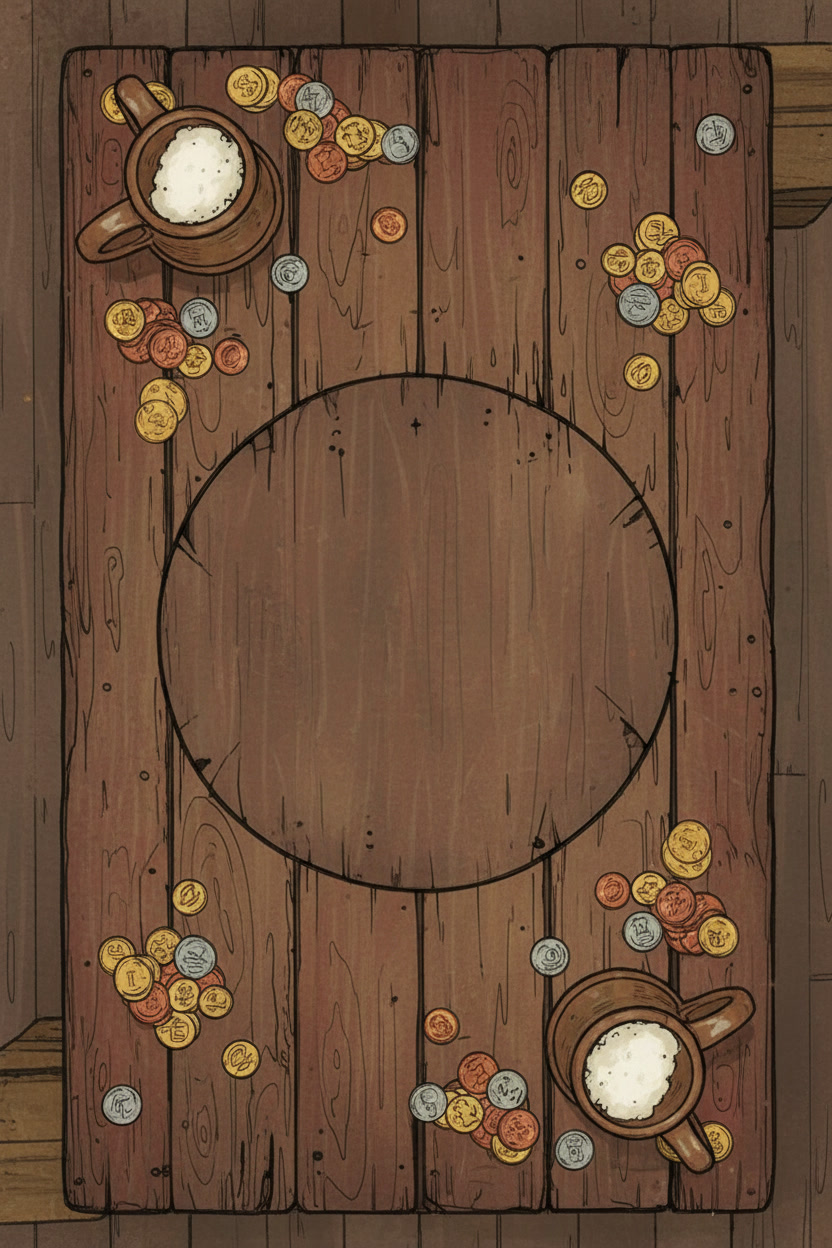
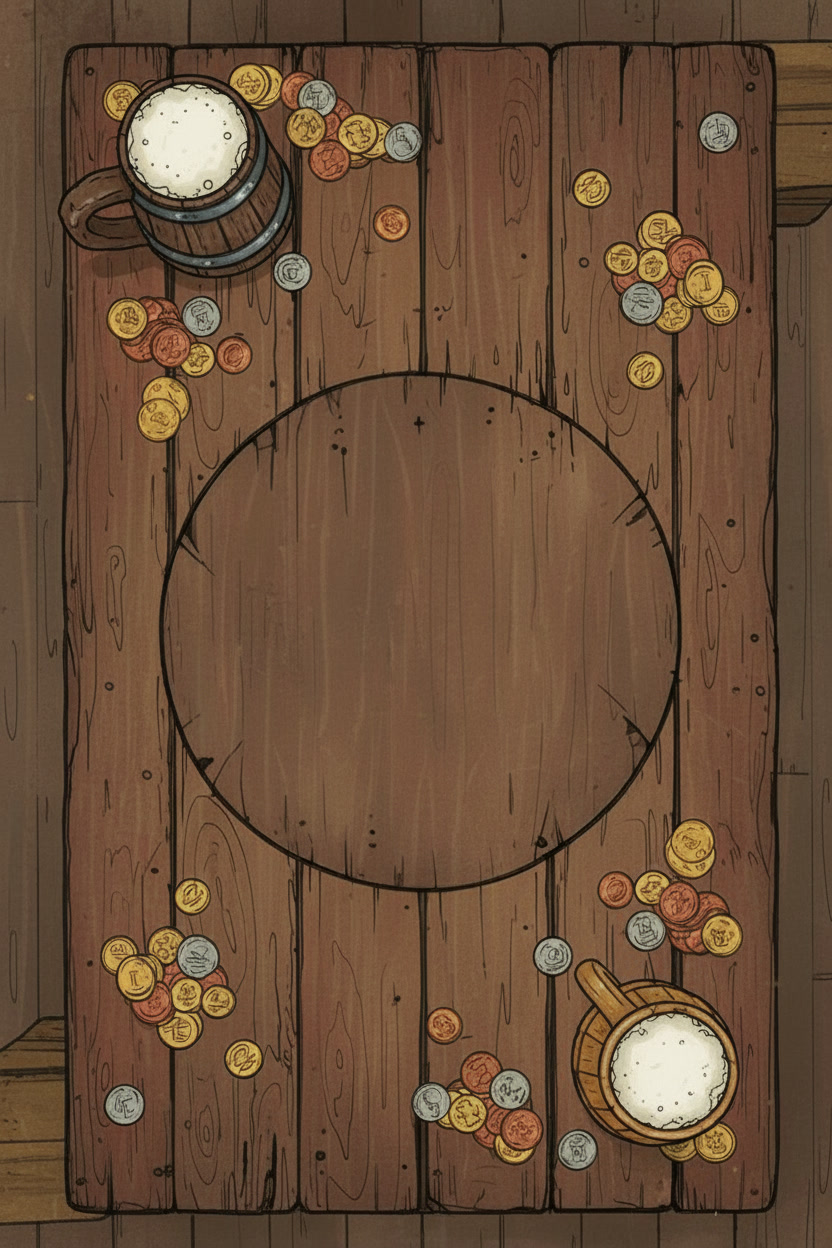
feat/fix/ref: доработана логика подключения к игровой комнате, добавлен модуль для работы со звуком, отредактированы изображения

diff --git a/game/web/game.js b/game/web/game.js
@@ -1,11 +1,27 @@
 import { loadProfile } from "./api.js";
 import { showScreen, setIsGameActive, hideWaitingOverlay } from "./ui.js";
+import { sfx } from './sfx.js';
 
+window.addEventListener('DOMContentLoaded', () => {
+    // Включаем WebAudio на первый клик/тач в документе
+    const unlockAudio = () => {
+        sfx.init();
+        
+        // Загружаем эффекты
+        sfx.loadSound('roll', '../sounds/dice.wav');
+        sfx.loadSound('bank', '../sounds/bank.wav');
+        sfx.loadSound('select', '../sounds/writingPen.wav');
+
+        document.removeEventListener('pointerdown', unlockAudio);
+    };
+
+    document.addEventListener('pointerdown', unlockAudio);
+});
 // Звуковые эффекты
-const sfxRoll = new Audio('../sounds/dice.wav');
+/*const sfxRoll = new Audio('../sounds/dice.wav');
 const sfxBank = new Audio('../sounds/bank.wav');
 const sfxSelect = new Audio('../sounds/writingPen.wav');
-
+*/
 let socket;
 let isMyTurn = false;
 let isZonkPending = false;
@@ -156,17 +172,18 @@ function getSelectedDiceValues() {
 
 // === НАЖАТИЯ НА КНОПКИ УПРАВЛЕНИЯ ===
 btnRoll.addEventListener('click', () => {
-    sfxRoll.currentTime = 0;
-    sfxRoll.play();
+   /* sfxRoll.currentTime = 0;
+    sfxRoll.play();*/
+    sfx.play('roll');
     selectedDiceIndices.clear();
     sendAction('ROLL');
 });
 
 // Кнопка "В банк" — сохраняет очки и передает ход сопернику
 btnBank.addEventListener('click', () => {
-    sfxBank.currentTime = 0;
-    sfxBank.play();
-    
+   /* sfxBank.currentTime = 0;
+    sfxBank.play();*/
+    sfx.play('bank');
     const selectedVals = getSelectedDiceValues();
     sendAction('BANK', selectedVals);
     selectedDiceIndices.clear();
@@ -181,9 +198,10 @@ btnSelect.addEventListener('click', () => {
         printLog(warningMsg);
         return;
     }
-
+    /*	
     sfxSelect.currentTime = 0;
-    sfxSelect.play();
+    sfxSelect.play();*/
+    sfx.play('select');	
     sendAction('SELECT_DICE', selectedVals);
 });
 
@@ -526,6 +544,8 @@ const processTurnChange = () => {
             setIsGameActive(false);
             stopVisualTimer();
             toggleControls(false);
+	    diceContainer.innerHTML = '';
+	    gameLogContainer.innerHTML = '';
             printLog(msg.message || "🏆 Игра завершена!");
             gameoverModalMsg.textContent = msg.message;
             gameoverModal.showModal();

diff --git a/game/web/sfx.js b/game/web/sfx.js
@@ -1,0 +1,49 @@
+class SoundManager {
+    constructor() {
+        this.ctx = null;
+        this.buffers = new Map();
+    }
+
+    // Инициализация контекста (должна вызываться по клику пользователя)
+    init() {
+        if (!this.ctx) {
+            const AudioContext = window.AudioContext || window.webkitAudioContext;
+            this.ctx = new AudioContext();
+        }
+        if (this.ctx.state === 'suspended') {
+            this.ctx.resume();
+        }
+    }
+
+    // Предзагрузка звукового файла в память
+    async loadSound(name, url) {
+        try {
+            const response = await fetch(url);
+            const arrayBuffer = await response.arrayBuffer();
+            // Раздекодируем аудиоданные
+            const audioBuffer = await new Promise((resolve, reject) => {
+                this.ctx.decodeAudioData(arrayBuffer, resolve, reject);
+            });
+            this.buffers.set(name, audioBuffer);
+        } catch (e) {
+            console.error(`Ошибка загрузки звука ${name}:`, e);
+        }
+    }
+
+    // Мгновенное воспроизведение
+    play(name) {
+        if (!this.ctx || this.ctx.state === 'suspended') {
+            this.init();
+        }
+
+        const buffer = this.buffers.get(name);
+        if (!buffer) return;
+
+        const source = this.ctx.createBufferSource();
+        source.buffer = buffer;
+        source.connect(this.ctx.destination);
+        source.start(0);
+    }
+}
+
+export const sfx = new SoundManager();

diff --git a/game/web/lobby.js b/game/web/lobby.js
@@ -136,7 +136,7 @@ btnConfirmCreate.addEventListener('click', async () => {
     const response = await createRoomReq(bet, score);
     console.log('Комната создана! ID:', response.room_id);
     createRoomModal.close();
-    connectWebSocket(response.room_id);
+    connectWebSocket(response.room_id, false);
   } catch (error) {
     console.error(`Ошибка создания комнаты: `, error);
   }
@@ -154,17 +154,17 @@ export const findGame = async () => {
     roomsData.forEach(room => {
       const newRoomLi = document.createElement('li');
       newRoomLi.classList.add('rooms-list-row');
-      newRoomLi.innerText = `Стол игрока ${room.creator}\n Ставка: ${room.bet_amount}`;
+      newRoomLi.innerText = `Стол игрока ${room.creator}\nСтавка: ${room.bet_amount}\nЦель: ${room.target_score}`;
       const joinGameBtn = document.createElement('button');
       joinGameBtn.innerText = 'Войти';
       joinGameBtn.classList.add('btn-medieval');
-    
+
       joinGameBtn.addEventListener('click', async () => {
         try {
           const res = await joinRoomReq(room.id);
           console.log('Успешный вход в игру! ID:', res.room_id);
           findRoomsModal.close();
-          connectWebSocket(res.room_id);
+          connectWebSocket(res.room_id, true);
         } catch (error) {
           console.error('Ошибка входа в игру: ', error)
         }

diff --git a/game/web/index.html b/game/web/index.html
@@ -122,9 +122,10 @@
             </div>
         </dialog>
         <dialog id="rules-modal" class="modal">
-            <div class="medieval-card modal-content">
+            <div class="medieval-card game-rules-content">
                 <h2>Правила игры</h2>
-                <p><b>Цель игры:</b> Первым набрать 3000 очков.</p>
+                <p><b>Цель игры:</b> Первым установленное количество очков.</p>
+		<p>Количество очков устанавливается при создании комнаты.</p>
                 <span>Игроки ходят по очереди. В начале хода нужно сделать бросок и выбрать призовые кости!</span>
                 <span>Призовые кости - это кости, которые приносят очки:</span>
                 <span>Очки приносят единицы (100) и пятерки (50), а также комбинации из 3+ одинаковых костей.</span>

diff --git a/game/web/ws.js b/game/web/ws.js
@@ -4,7 +4,7 @@ import { showScreen, showGameStatus, showWaitingOverlay, hideWaitingOverlay } fr
 
 const wsHost = window.ENV.WS_URL;
 
-export async function connectWebSocket(roomId) {
+export async function connectWebSocket(roomId, isJoining = false) {
   const token = await getValidToken();
   if (!token) {
     console.warn("Нет токена для WebSocket. Игрок не авторизован.");
@@ -23,7 +23,11 @@ export async function connectWebSocket(roomId) {
     setGameSocket(socket);
 
     if (roomId) {
-      showWaitingOverlay("Комната создана. Ожидаем второго игрока...");
+      if (isJoining) {
+        showWaitingOverlay("Ожидаем согласия создателя комнаты");
+      } else {
+        showWaitingOverlay("Комната создана. Ожидаем второго игрока...");
+      }
 
       // Привязываем отмену к зарытию сокета
       const cancelBtn = document.getElementById('cancel-waiting-btn');

diff --git a/game/web/style.css b/game/web/style.css
@@ -279,6 +279,13 @@ dialog {
 .medieval-form { display: flex; flex-direction: column; }
 .form-error-msg { color: red; background-color: #2c3e50; }
 .hidden { display: none!important; }
+.game-rules-content {
+ max-height: 460px;
+ overflow-y: auto;
+ background: rgba(20, 20, 20, 0.95);
+ max-width: 300px;
+}
+.combo-list { list-style-type: none; margin: 0; }
 
 /* Адаптивность (Media Queries) для мобильных устройств */
 /* Стандартные смартфоны вертикально */

diff --git a/game/internal/game/room.go b/game/internal/game/room.go
@@ -27,10 +27,10 @@ type Room struct {
 	lobby   *Lobby     // Ссылка на родительский менеджер комнат
 
 	// Экономика
-	BetAmount int                 // Размер ставки
-	TargetScore int		      // Очки для победы
-	Pot       int                 // общий банк
-	Store     economy.PlayerStore // ссылка на хранилище
+	BetAmount   int                 // Размер ставки
+	TargetScore int                 // Очки для победы
+	Pot         int                 // общий банк
+	Store       economy.PlayerStore // ссылка на хранилище
 
 	// Игровое состояние комнаты
 	IsStarted   bool                   // Старт игры
@@ -98,11 +98,11 @@ func (r *Room) AddClient(client *Client) {
 			return
 		}
 
-	// Если это второй игрок (подключается к создателю) - отправляем запрос
+		// Если это второй игрок (подключается к создателю) - отправляем запрос
 		if len(r.Players) == 1 && !r.IsStarted {
 			r.PendingClient = client
 			r.PendingPlayer = playerName
-			
+
 			// Находим клиента-создателя для отправки запроса
 			for c := range r.Clients {
 				if c.PlayerName == r.Players[0] {
@@ -243,8 +243,8 @@ func (r *Room) resetTurnTimerLocked() {
 			delta  int
 		}
 
-		// Проверяем, не набрал ли игрок 3000 очков за счет этого авто-сохранения
-		if r.Banks[r.CurrentTurn] >= 3000 {
+		// Проверяем, не набрал ли игрок выйгрышную сумму очков за счет этого авто-сохранения
+		if r.Banks[r.CurrentTurn] >= r.TargetScore {
 			r.stopTurnTimerLocked()
 			r.IsStarted = false
 
@@ -458,13 +458,6 @@ func (r *Room) Leave(client *Client) {
 func (r *Room) HandleAction(client *Client, action models.ActionMessage) {
 	r.Mu.Lock()
 
-	// 1. Если игра ещё не началась (ждём второго игрока)
-	if !r.IsStarted {
-		r.Mu.Unlock()
-		r.sendToClient(client, models.EventMessage{Type: "ERROR", Message: "Ожидаем второго игрока..."})
-		return
-	}
-
 	// === ДЕЙСТВИЯ, ДОСТУПНЫЕ В ЛЮБОЙ МОМЕНТ (Даже не в свой ход) ===
 	switch action.Type {
 	case "CHAT":
@@ -479,7 +472,6 @@ func (r *Room) HandleAction(client *Client, action models.ActionMessage) {
 	case "SURRENDER":
 		r.finishGameBySurrenderLocked(client.PlayerName, fmt.Sprintf("Игрок %s сдался.", client.PlayerName))
 		return
-
 
 	case "ACCEPT_JOIN":
 		if r.PendingPlayer == "" || client.PlayerName != r.Players[0] {
@@ -516,6 +508,12 @@ func (r *Room) HandleAction(client *Client, action models.ActionMessage) {
 		r.PendingClient = nil
 		r.PendingPlayer = ""
 		r.Mu.Unlock()
+		return
+	}
+	// Если игра ещё не началась (ждём второго игрока)
+	if !r.IsStarted {
+		r.Mu.Unlock()
+		r.sendToClient(client, models.EventMessage{Type: "ERROR", Message: "Ожидаем второго игрока..."})
 		return
 	}
 
@@ -658,7 +656,7 @@ func (r *Room) HandleAction(client *Client, action models.ActionMessage) {
 		r.Banks[r.CurrentTurn] += r.RoundScore
 
 		// Проверка на победу!
-		if r.Banks[r.CurrentTurn] >= 3000 {
+		if r.Banks[r.CurrentTurn] >= r.TargetScore {
 			r.stopTurnTimerLocked()
 			r.IsStarted = false
 			r.lobby.RemoveRoom(r.ID)

diff --git a/game/internal/game/lobby.go b/game/internal/game/lobby.go
@@ -10,10 +10,10 @@ import (
 )
 
 type RoomInfo struct {
-	ID        string `json:"id"`
-	Creator   string `json:"creator"`
-	BetAmount int    `json:"bet_amount"`
-	TergetScore int `json:"target_score"`
+	ID          string `json:"id"`
+	Creator     string `json:"creator"`
+	BetAmount   int    `json:"bet_amount"`
+	TargetScore int    `json:"target_score"`
 }
 
 type Lobby struct {
@@ -63,9 +63,10 @@ func (l *Lobby) GetAvailableRooms() []RoomInfo {
 		// Показываем только те комнаты, где ждем второго игрока
 		if !room.IsStarted && len(room.Players) == 1 {
 			available = append(available, RoomInfo{
-				ID:        room.ID,
-				Creator:   room.Players[0],
-				BetAmount: room.BetAmount,
+				ID:          room.ID,
+				Creator:     room.Players[0],
+				BetAmount:   room.BetAmount,
+				TargetScore: room.TargetScore,
 			})
 		}
 	}
@@ -96,19 +97,10 @@ func (l *Lobby) JoinRoom(roomID string, username string) (*Room, error) {
 			return room, nil
 		}
 	}
-	// ПРоверяем, есть ли ещё место
+	// Проверяем, есть ли ещё место
 	if room.IsStarted || len(room.Players) >= 2 {
 		return nil, fmt.Errorf("комната уже заполнена или игра началась")
 	}
-
-	// Транзакция - пытаемся списать деньги
-	err := l.Store.DeductBalance(username, room.BetAmount)
-	if err != nil {
-		return nil, err // деньги не списались - игрок не добавлен
-	}
-
-	// деньги успешно списаны - добавляем игрока
-	room.Players = append(room.Players, username)
 
 	return room, nil
 }

diff --git a/auth/internal/service/auth_service.go b/auth/internal/service/auth_service.go
@@ -117,6 +117,7 @@ func (s *AuthService) sendVerificationEmail(to, token string) error {
         <p>Перейдите по ссылке, чтобы подтвердить email:</p>
         <a href="%s">%s</a>
         <p>Если вы не регистрировались, просто проигнорируйте это письмо.</p>
+	<p>P.S. Любая обратная связь очень ценна - если у Вас есть пожелания, предложения, пишите на этот почтовый ящик с темой письма NeeKoobaMeemo. Если вдруг Вы столкнулись с неожиданным поведением во время игры - прошу Вас сообщить об этом, желательно с описанием ситуации - какой был шаг и что произошло в результате</p>
     `, link, link)
 	m.SetBody("text/html", body)
 
